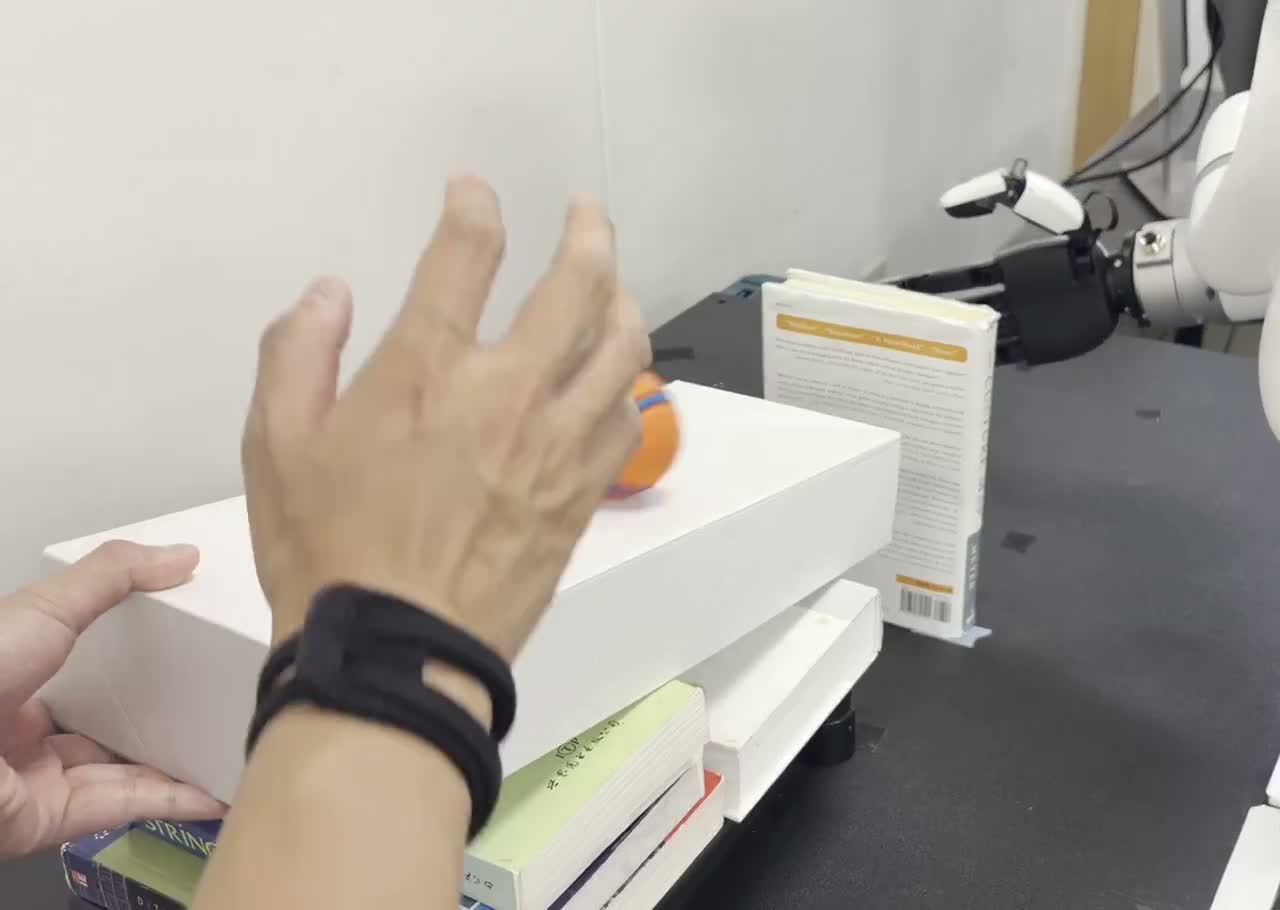
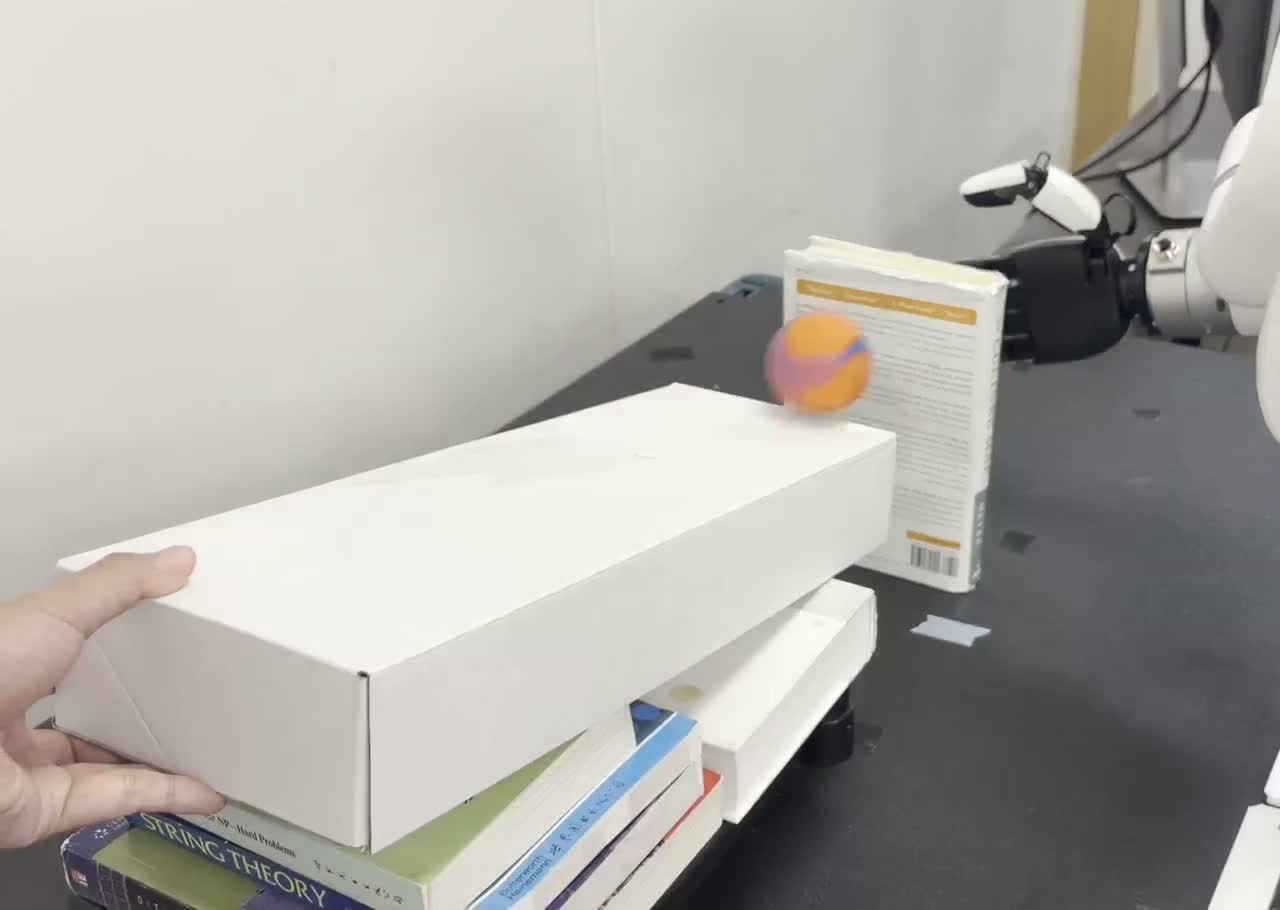
Catch: main 2x2 ours uses rollout 8

diff --git a/static/js/success.js b/static/js/success.js
@@ -26,4 +26,4 @@ window.SUCCESS = {
   },
 };
 /* main 2x2 rollout index (1-based) chosen per task: ours succeeds, baselines fail */
-window.MAIN_N = { spill: 1, book: 11, box: { ours: 1, sync: 6, async: 6, rtc: 6 }, catch: 1 };
+window.MAIN_N = { spill: 1, book: 11, box: { ours: 1, sync: 6, async: 6, rtc: 6 }, catch: { ours: 8, sync: 1, async: 1, rtc: 1 } };